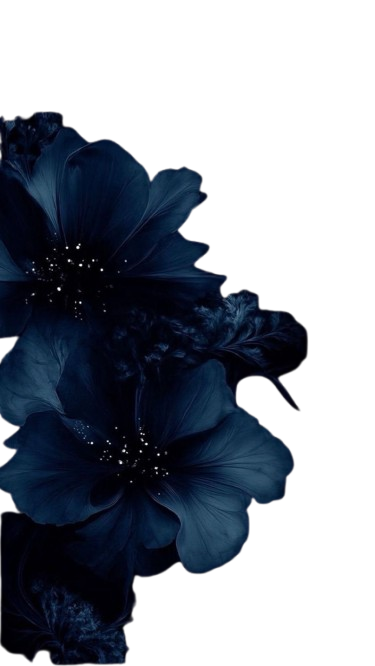
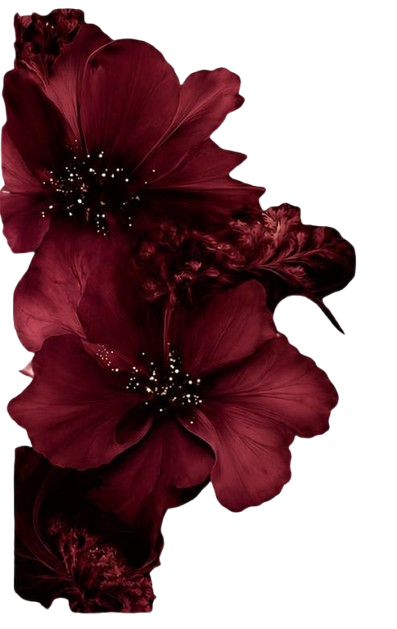
Cambiando estilo y color de la invitación

diff --git a/src/styles/components/loader.scss b/src/styles/components/loader.scss
@@ -9,6 +9,8 @@
   padding-top: clamp(12px, 3vh, 30px);
   padding-bottom: clamp(10px, 2vh, 24px);
   background:#000;
+  background: radial-gradient(circle at top, #2a0f15, #0b0b12 70%);
+  background: radial-gradient(circle at top, #4b0d18 0%, #25040d 45%, #120206 100%);
 
   &::before{
     content:"";
@@ -40,15 +42,15 @@
     pointer-events:none;
   }
 
-  &__bg-img {
-    position: absolute;
-    width: 100%;
-    height: 100%;
-    object-fit: cover;
-    object-position: center;
-    z-index: 0;
-    filter: brightness(0.6) saturate(1.2);
-  }
+  // &__bg-img {
+  //   position: absolute;
+  //   width: 100%;
+  //   height: 100%;
+  //   object-fit: cover;
+  //   object-position: center;
+  //   z-index: 0;
+  //   filter: brightness(0.6) saturate(1.2);
+  // }
 
   &__stars{
     position:absolute;
@@ -84,7 +86,7 @@
   &__overlay {
     position: absolute;
     inset: 0;
-    background: rgba(180, 120, 140, 0.45); 
+    background: rgba(120, 20, 30, 0.35);
     z-index: 1;
     transition: all 0.8s ease;
   }
@@ -95,7 +97,12 @@
     z-index: 2;
     pointer-events: none;
     opacity: 0.9;
-    filter: drop-shadow(0 10px 20px rgba(0,0,0,0.5));
+    filter:
+    hue-rotate(-10deg)
+    saturate(1.3)
+    brightness(0.85)
+    contrast(1.1)
+    drop-shadow(0 10px 20px rgba(0,0,0,0.5));
   }
 
   &__flower--tl {
@@ -105,7 +112,7 @@
 
   &__flower--br {
     bottom: 0;
-    right: 0;
+    right: -24px;
   }
 
   &__flower--bl {
@@ -173,6 +180,7 @@
     width: 20px;
     opacity: 0.85;
     animation: fall linear infinite;
+    filter: hue-rotate(-30deg) saturate(1.5);
   }
 
 }
@@ -216,12 +224,12 @@
       width:10px;
       height:10px;
       border-radius:50%;
-      background:#f1d58a;
+      background:#ffcc66;
       opacity:.18;
       box-shadow:
-          0 0 5px #d4af37,
-          0 0 10px #f8e08b,
-          0 0 18px rgba(255, 255, 150, .08);
+    0 0 6px #ffd700,
+    0 0 12px #ffb347,
+    0 0 20px rgba(255, 80, 80, .2);
       animation:twinkle ease-in-out infinite;
       margin-top: 140px;
     }
@@ -249,6 +257,32 @@
     justify-content:center;
     align-items:center;
     margin-top: clamp(40px, 9vh, 120px);
+
+    &::before{
+      content: "";
+      position: absolute;
+      width: 520px;
+      height: 520px;
+
+      background:
+      radial-gradient(circle,
+      rgba(255,220,120,.16),
+      rgba(255,170,60,.05) 45%,
+      transparent 75%);
+      filter:blur(40px);
+      z-index:-2;
+      animation:halo 7s ease-in-out infinite;
+    }
+  }
+
+  @keyframes halo {
+    0%,100%{
+      transform: scale(.95);
+    }
+    50%{
+      transform: scale(1.08);
+      opacity: 1;
+    }
   }
 
   &__card{
@@ -259,10 +293,18 @@
     padding:60px 24px 90px;
     border-radius:30px;
     text-align:center;
-    background:
-    radial-gradient(circle at top,rgba(255,255,255,.08),transparent),
-    linear-gradient(180deg,#0f1f3d,#0a142b);
-    border:2px solid rgba(212,175,55,.7);
+    // background:
+    //   linear-gradient(circle at 50% 15%,
+    // rgba(255,255,255,.12),
+    // transparent 30%),
+
+    // linear-gradient(
+    // 180deg,
+    // #8f1229 0%,
+    // #79111f 28%,
+    // #61101b 60%,
+    // #3b0811 100%);
+    border: 2px solid rgba(212,175,55,.85);
     box-shadow:0 25px 60px rgba(0,0,0,.8);
   }
 
@@ -272,6 +314,8 @@
     inset: 10px;
     border-radius: 25px;
     border: 1px solid rgba(212,175,55,0.4);
+    box-shadow: 0 0 0 1px rgba(255,220,160,.08),
+    inset 0 0 25px rgba(255, 180, 80, .05)
   }
 
   &__card::after {
@@ -290,29 +334,25 @@
   &__top {
     font-size: 0.7rem;
     letter-spacing: 2px;
-    color: #7a5c4f;
-    color: #e8d8c3;
+    color: #f5dede;
   }
 
   &__mis {
     font-family: 'Playfair Display', serif;
-    color: #c9a96e;
-    color: #d4af37;
+    color: #ffd700;
   }
 
   &__xv {
     font-family: 'Playfair Display', serif;
     font-size: 3.8rem;
-    color: #b8874f;
-    color: #f1d58a;
+    color: #ffe9a3;
   }
 
   &__years {
     display: block;
     font-size: 0.8rem;
     letter-spacing: 3px;
-    color: #9c7b5c;
-    color: #cbb48a;
+    color: #f1d58a;
   }
 
   &__divider {
@@ -326,16 +366,14 @@
   &__name {
     font-family: 'Great Vibes', cursive;
     font-size: 3.2rem;
-    color: #c06c6c;
     margin: 20px 0;
-    color: #f3d9d9;
+    color: #fff0f0;
   }
 
   &__text {
     font-size: 0.75rem;
-    color: #6b4f3f;
     margin-bottom: 25px;
-    color: #d6c6b0;
+    color: #f5dede;
   }
 
   &__btn {
@@ -344,11 +382,13 @@
     border-radius: 20px;
     border: none;
     z-index: 1;
-    background: linear-gradient(145deg, #111, #2a2a2a);
-    color: #d4af37;
+    background: linear-gradient(145deg, #2a0006, #7a0010);
+    color: #ffd700;
+    border: 1px solid rgba(255,215,0,0.4);
     cursor: pointer;
     letter-spacing: 1px;
     box-shadow: 0 10px 20px rgba(0,0,0,0.5);
+    
   }
 
   &__card-stand {
@@ -401,7 +441,7 @@
     width: 0;
     height: 0;
     border-left: 95px solid transparent;
-    border-bottom: 95px solid #000;
+    border-bottom: 95px solid #26050d;
   }
 
   &__triangles::before {
@@ -412,7 +452,7 @@
     width: 0;
     height: 0;
     border-right: 95px solid transparent;
-    border-bottom: 95px solid #000;
+    border-bottom: 95px solid #26050d;
   }
 
 }
@@ -479,10 +519,6 @@
     padding: 45px 20px 80px;
     border-radius: 30px;
     text-align: center;
-    background:
-      radial-gradient(circle at top, rgba(255,255,255,.08), transparent),
-      linear-gradient(180deg,#0f1f3d,#0a142b);
-    border:2px solid rgba(212,175,55,.7);
     box-shadow:0 25px 60px rgba(0,0,0,.8);
   }
 
@@ -505,6 +541,7 @@
   .loader__flower--bl,
   .loader__flower--tr{
     width:290px;
+    height: 97px;
   }
 
   .loader__flower--far-tr {

diff --git a/src/components/LoaderScreen.jsx b/src/components/LoaderScreen.jsx
@@ -13,8 +13,8 @@ export default function LoaderScreen({ onEnter }) {
 
   return (
     <div className={`loader ${closing ? "loader--exit" : ""}`}>
-      <img
-        src="/images/fondo.png" alt="fondo" className="loader__bg-img"/>
+      {/* <img
+        src="/images/fondo.png" alt="fondo" className="loader__bg-img"/> */}
 
       <div className="loader__stars">
         {Array.from({ length: 70 }).map((_, i) => (
@@ -110,7 +110,7 @@ export default function LoaderScreen({ onEnter }) {
                   Q200,160 40,120
                   Z
                 "
-                fill="#000"
+                fill="#26050d"
               />
 
               <path
